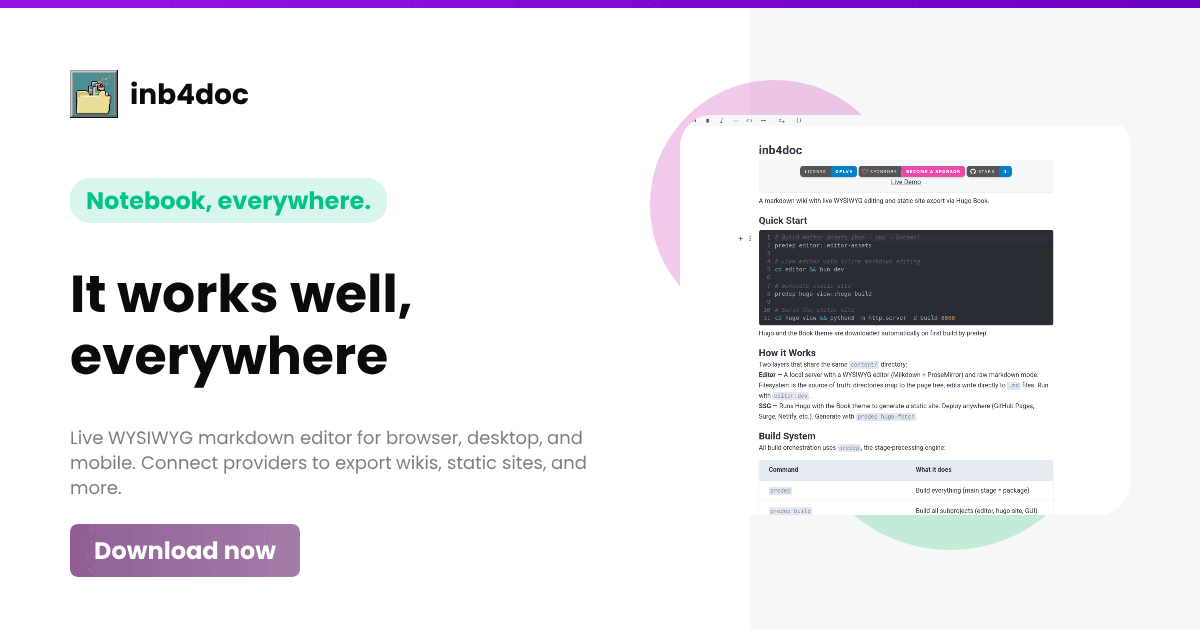
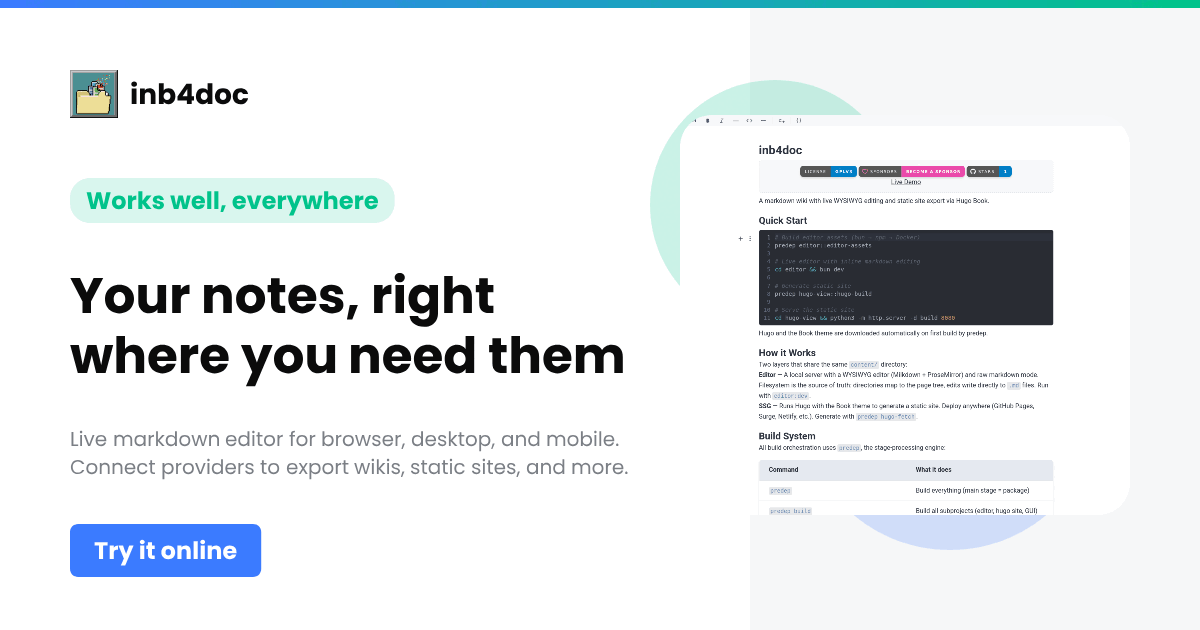
fix(og): better hugo og, image social

diff --git a/hugo-view/layouts/_partials/docs/inject/head.html b/hugo-view/layouts/_partials/docs/inject/head.html
@@ -1,17 +1,20 @@
-<meta property="og:title" content="{{ .Title }}">
-<meta property="og:description" content="{{ with .Description }}{{ . }}{{ else }}{{ if .IsPage }}{{ .Summary | plainify | htmlUnescape }}{{ else }}{{ with .Site.Params.description }}{{ . }}{{ end }}{{ end }}{{ end }}">
 <meta property="og:url" content="{{ .Permalink }}">
 <meta property="og:site_name" content="{{ .Site.Title }}">
-<meta property="og:type" content="{{ if .IsPage }}article{{ else }}website{{ end }}">
-<meta property="og:locale" content="{{ with .Site.Language.Lang }}{{ . }}{{ else }}en_US{{ end }}">
-{{- with .Params.images }}{{ range first 6 . }}<meta property="og:image" content="{{ . | absURL }}">
-{{ end }}{{ else }}{{ with .Site.Params.images }}<meta property="og:image" content="{{ index . 0 | absURL }}">
-{{ end }}{{ end -}}
+{{- if .Params.images }}
+  {{- range first 1 .Params.images }}<meta property="og:image" content="{{ . | absURL }}">
+  {{- end }}
+{{- else if .Site.Params.images }}
+  {{- range first 1 .Site.Params.images }}<meta property="og:image" content="{{ . | absURL }}">
+  {{- end }}
+{{- else }}
+  <meta property="og:image" content="/inb4doc/editor-live/opengraph.png">
+{{- end -}}
 {{- if .IsPage }}<meta property="article:published_time" content="{{ .PublishDate.Format "2006-01-02T15:04:05-07:00" }}">
 <meta property="article:modified_time" content="{{ .Lastmod.Format "2006-01-02T15:04:05-07:00" }}">{{ end }}
 <meta name="twitter:card" content="summary_large_image">
-<meta name="twitter:title" content="{{ .Title }}">
+<meta name="twitter:title" content="{{ if .IsHome }}{{ .Site.Title }} — Your notes, where you need them{{ else }}{{ .Title }} — {{ .Site.Title }}{{ end }}">
 <meta name="twitter:description" content="{{ with .Description }}{{ . }}{{ else }}{{ if .IsPage }}{{ .Summary | plainify | htmlUnescape }}{{ else }}{{ with .Site.Params.description }}{{ . }}{{ end }}{{ end }}{{ end }}">
+<meta name="twitter:image" content="{{ if .Params.images }}{{ index .Params.images 0 | absURL }}{{ else if .Site.Params.images }}{{ index .Site.Params.images 0 | absURL }}{{ else }}/inb4doc/editor-live/opengraph.png{{ end }}">
 <style>
   :root[data-theme="light"] {
     --body-background: white;